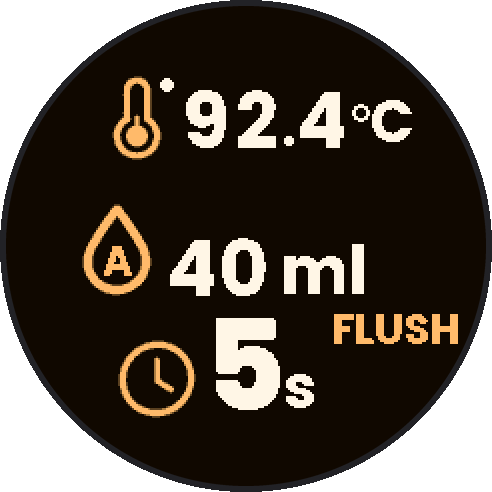
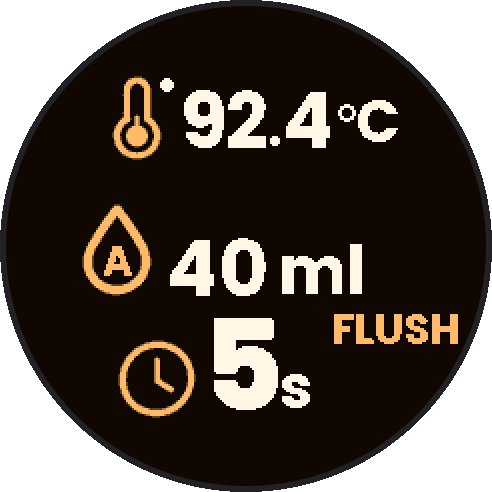
Revert "Display: same width for all the digits of a font, so the units move less"
The cells are too wide for the screen: the "l" of "ml" leaves the round screen from
100 ml, and the PRE / WAIT tags overlap a number of 10. Back to the proportional digits.

Claude-Session: https://claude.ai/code/session_012AnZeUFZeKvHXGUDRfJG7Q

diff --git a/src/display/display.cpp b/src/display/display.cpp
@@ -112,37 +112,26 @@ static const GFXglyph *glyphOf(const GFXfont *font, char c) {
   return &glyphs[c - '0'];
 }
 
-// Width of the cell of a digit: the same for all the digits of a font (the widest one), so that the end of
-// a number, and the unit that follows it, move only when the number gets one digit longer or shorter, not
-// each time a digit changes ("1" is much narrower than "4"). The decimal point keeps its own width.
-#define DIGIT_CELL_SMALL 26
-#define DIGIT_CELL_LARGE 39
-
-// Width of the cell of a character: how far the cursor moves after it.
+// Width of the cell of a character: how far the cursor moves when it is printed.
 static uint8_t advanceOf(const GFXfont *font, char c) {
-  if (c == ':') {
-    return pgm_read_byte(&glyphOf(font, c)->xAdvance);
-  }
-  return (font == FONT_SMALL) ? DIGIT_CELL_SMALL : DIGIT_CELL_LARGE;
+  return pgm_read_byte(&glyphOf(font, c)->xAdvance);
 }
 
 // Draws one character as a block of the zone height, in one burst: the pixels of the glyph in the text color
 // and all the others in the background color. The old character is replaced at once, without a moment where
 // the place is blank (what a erase followed by a print would show).
-// The block is as wide as the cell, or wider if the glyph goes beyond it:
+// The block is as wide as the cell, or wider if the glyph goes beyond it (the large '7' goes 1 px beyond):
 // the characters are drawn from right to left so that this overhang is not erased by the next character.
 // Returns the width of the block.
 static uint8_t drawGlyphBlock(const GFXfont *font, char c, int16_t x, int16_t y, int16_t height, int16_t baseline) {
   const GFXglyph *glyph = glyphOf(font, c);
   const uint8_t width = pgm_read_byte(&glyph->width);
   const uint8_t rows = pgm_read_byte(&glyph->height);
-  // The glyph is centered in its (wider) cell
-  const int16_t xOffset = (int8_t)pgm_read_byte(&glyph->xOffset)
-                          + (advanceOf(font, c) - pgm_read_byte(&glyph->xAdvance)) / 2;
+  const int8_t xOffset = (int8_t)pgm_read_byte(&glyph->xOffset);
   const int16_t top = baseline + (int8_t)pgm_read_byte(&glyph->yOffset);   // first row of the glyph
   const uint8_t *bits = glyphBitmap(font) + pgm_read_word(&glyph->bitmapOffset);
 
-  uint8_t blockWidth = advanceOf(font, c);
+  uint8_t blockWidth = pgm_read_byte(&glyph->xAdvance);
   if (xOffset + width > blockWidth) {
     blockWidth = xOffset + width;
   }
